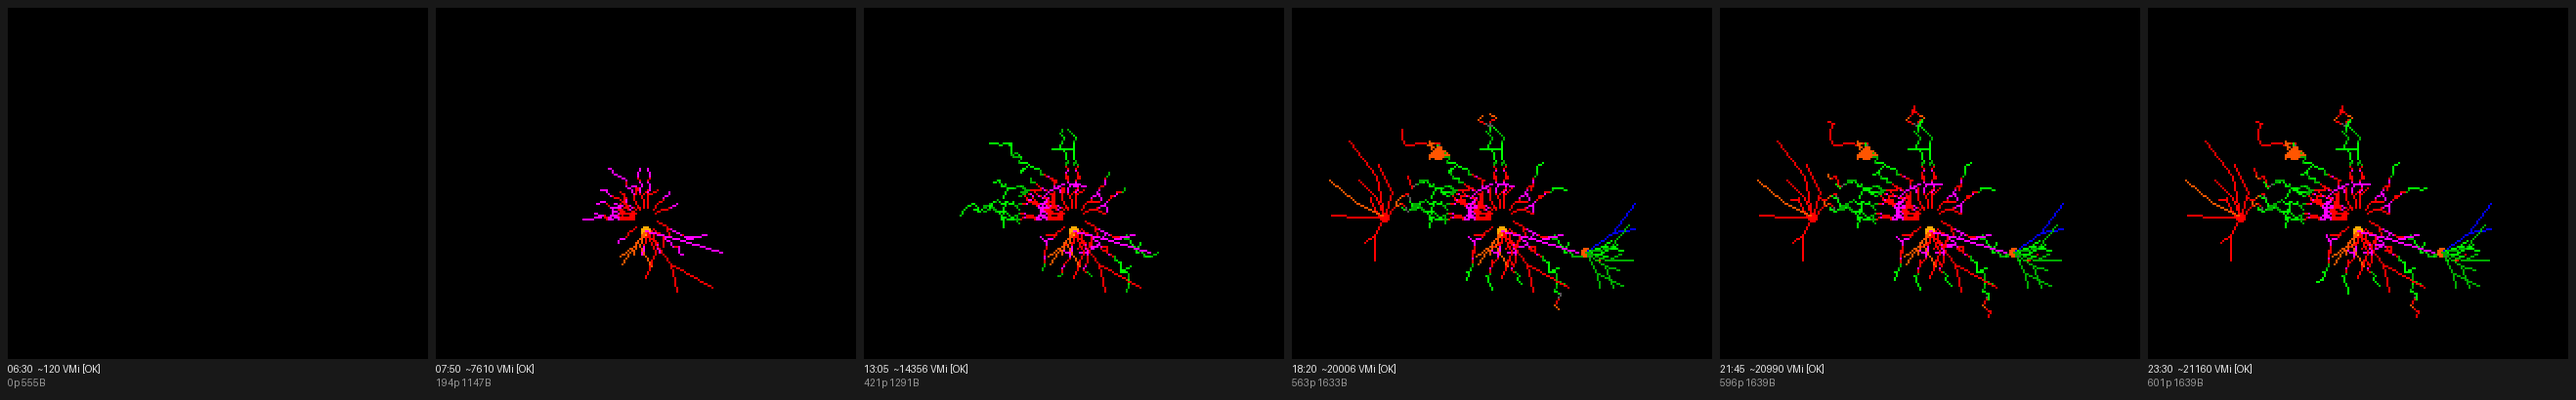
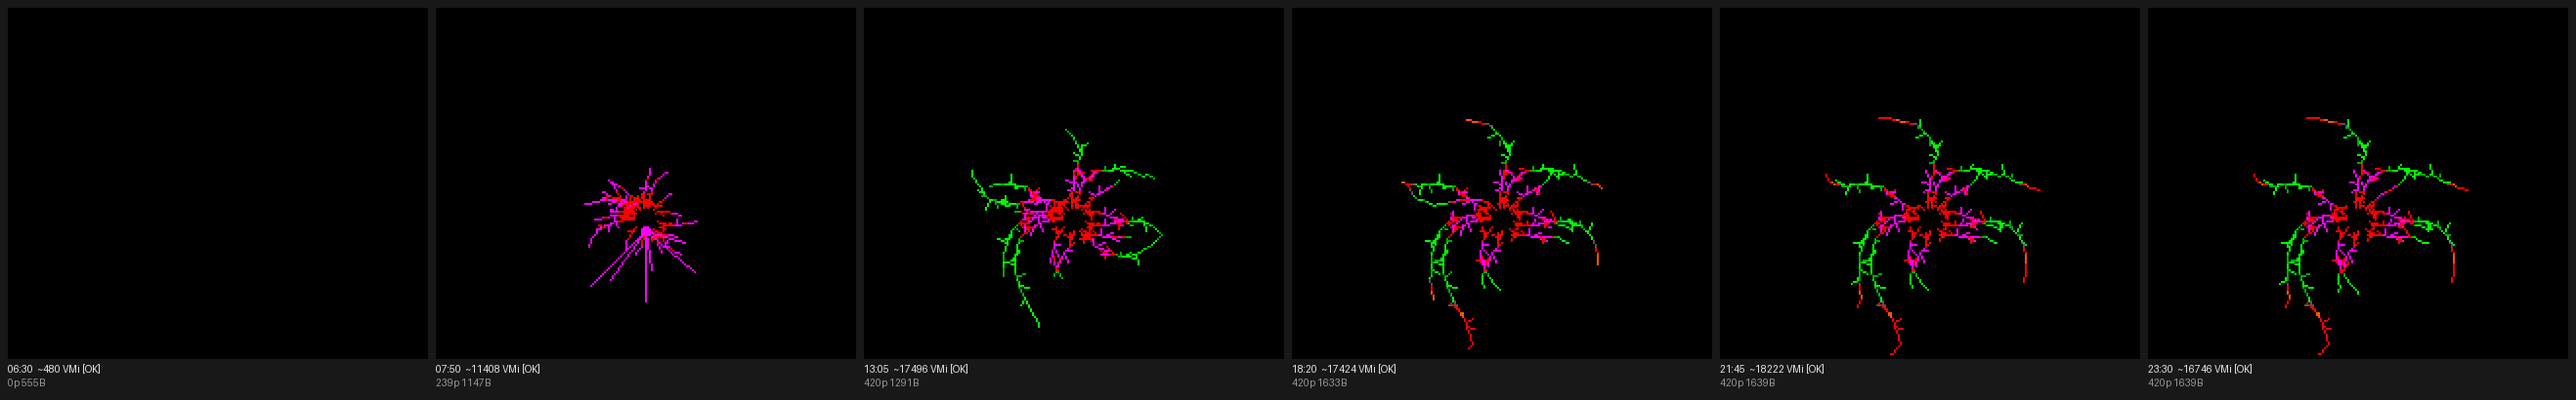
BioBloom: smooth-curve arms so the skeleton reads organic, not jagged
The coarse parametric regen made each arm a piecewise-linear walk that
re-rolled a fresh AMP*ws random turn at every stride, so a coarsened arm
was a DIFFERENT, wilder shape than the fine one -- staggered zigzags that
looked "kinda ugly" on an active dish (ws grows to ~6 on the wrist).

Replace the per-anchor random walk with a smooth heading curve
(headAngle): a gentle per-arm circular-arc curl (sign+rate from the seed
hash) plus one slow undulation, zeroed at the base so arms leave the
centre radially then bend -- reading as an organic tendril. Because the
heading is smooth in along-arm distance, the coarse regen just samples
the SAME curve at fewer points: coarsening drops fidelity, never injects
wander. The arm stays a pure function of its saved scalars (a0, rb, np),
so reload is still lossless and save()/load() are untouched.

growFil no longer accumulates the wiggle per vertex; it sets _tha to the
heading at the tip, so blooms (seedBloom), branch seeding and nearest()
now use the exact point the skeleton reaches -- blooms anchor on the arm
tips instead of floating.

Cost: the curve drops the per-anchor hash16 (constants hoisted per arm),
so it is slightly CHEAPER per anchor than the old walk, and growFil's
per-vertex hash/isin loop is gone -- both render and the advance() catch-up
are lighter than the known-good version. Measured on the same host via
testLayerCostProfile: bloom render 13.1ms vs 13.7ms before, same
[…]

diff --git a/sketches/algos/biobloom_parametric.py b/sketches/algos/biobloom_parametric.py
@@ -16,10 +16,11 @@ Why this is the version that helps the 64 KB ceiling, not just the save blob:
     live allocation) disappears. Regeneration streams one arm at a time into a
     PMAX-slot scratch, so we do NOT just relocate _pt into a frame buffer.
   * save()/load() shrink too: arms persist as scalars, no vertex dump.
-  * reload is LOSSLESS: the wander uses a FIXED amp (AMP), so an arm is a pure
-    function of (a0, rb, np) -- regenerating gives back exactly the live arm.
-    The cost is dropping flag D7 (HR-variability -> wander amplitude); AMP is
-    chosen so the dish keeps its organic tangle (see sketches/save_compare.py).
+  * reload is LOSSLESS: the shape is a smooth curve `head(a0, rb, d)` (a per-arm
+    curl + one undulation), a pure function of (a0, rb, np), so regenerating gives
+    back exactly the live arm. A smooth heading (vs the old per-anchor random walk)
+    is also what makes a COARSELY-regenerated arm still look organic instead of
+    jaggedly staggered -- coarsening just samples the same curve at fewer points.
 
 Trade vs biobloom.py: skeleton and fur are drawn together per arm (one walk),
 so the global skeleton>blooms>fur ink priority becomes blooms>(skeleton+fur).
@@ -59,9 +60,28 @@ KMAX = 20
 SEEDS = 9
 BMAX = 16
 PMAX = 41                 # max vertices an arm regenerates to (R0..RMAX by STEP)
-AMP = 3                   # fixed wander amplitude (was 1 + vrange//10; see module
-                          # docstring -- a constant makes the arm regenerable and
-                          # was tuned to keep the organic look)
+# Arm SHAPE: a smooth per-arm curl (a circular arc, sign+rate from the seed hash)
+# plus one slow undulation, a pure function of (a0, rb, along-arm distance d). The
+# heading is smooth in d, so coarse regen samples the SAME curve -- it cannot inject
+# the jagged wander the old per-anchor AMP*ws random walk did. Mirrors BioBloom.mc.
+CURL_RATE = 22
+CURL_VAR = 12
+CURL_DIV = 64
+UND_SW = 14
+UND_FR = 3
+
+
+def head(a0, rb, d):
+    """Smooth arm heading at along-arm distance d (px). Undulation zeroed at d==0 so
+    the arm leaves the centre radially (at a0) then curves. Mirrors BioBloom.mc."""
+    h = hash16(a0, rb, 2)
+    rate = CURL_RATE + imod(h, CURL_VAR)
+    sign = 1 if (h & 1) else -1
+    ph = imod(hash16(a0, 7, 3), 256)
+    und0 = isin(ph)
+    curl = sign * idiv(rate * d, CURL_DIV)
+    und = idiv(UND_SW * (isin(imod(d * UND_FR + ph, 256)) - und0), 127)
+    return imod(a0 + curl + und, 256)
 
 ACTIVE = 4
 MOM_MODE = "cooldown"
@@ -118,62 +138,51 @@ class BioBloomParam:
     # ---- arm geometry: regenerate vertices from (a0, rb, np) ------------------
 
     def _arm_vertices(self, f):
-        """Replay the fixed-amp wiggle walk. Returns [(x, y, rr), ...]. This is
-        the one allocation per arm per frame -- a PMAX-slot scratch in the .mc,
-        reused across arms (NOT a persistent per-arm cache)."""
-        a = f["a0"]
+        """Sample the smooth heading curve (head) at every vertex. Returns
+        [(x, y, rr), ...]. This is the one allocation per arm per frame -- a
+        PMAX-slot scratch in the .mc, reused across arms (NOT a persistent cache)."""
+        a0 = f["a0"]
         rb, np = f["rb"], f["np"]
         if self.coarse:
-            return self._arm_vertices_coarse(a, rb, np)
+            return self._arm_vertices_coarse(a0, rb, np)
         pts = []
         for k in range(np):
             rr = rb + k * STEP
-            if k > 0:
-                da = idiv(isin(hash16(a, rr, 1) & 255) * AMP, 127)
-                a = imod(a + da, 256)
-            x = CX + idiv(rr * isin(a + 64), 127)
-            y = CY + idiv(rr * isin(a), 127)
-            pts.append((x, y, rr))
+            a = head(a0, rb, k * STEP)
+            pts.append((CX + idiv(rr * isin(a + 64), 127),
+                        CY + idiv(rr * isin(a), 127), rr))
         return pts
 
-    def _arm_vertices_coarse(self, a, rb, np):
-        """Emit ONLY the strided anchors (k = 0, ws, 2*ws, ... + the tip) as a
-        compact list -- NO per-vertex fill. drawArms draws the arm as those few
-        anchor-to-anchor segments. Mirrors BioBloom.mc regenArm(): the per-vertex
-        fill the old version did expanded ~REGEN_CAP anchors back to ~np vertices
-        and processed every one, and that per-vertex method-call work (NOT modelled
-        by this sandbox's VM proxy) was ~90% of the real on-device frame -- the
-        watchdog trip. Emitting only anchors cuts it ~8x. The stride self._ws
-        widens with dish size so total anchors stay ~REGEN_CAP."""
+    def _arm_vertices_coarse(self, a0, rb, np):
+        """Emit ONLY the strided anchors (k = 0, ws, 2*ws, ... + the tip), sampling
+        the SAME smooth heading curve as the fine version -- NO per-vertex fill, and
+        coarsening cannot change the shape (it just samples fewer points on the same
+        curve). Mirrors BioBloom.mc regenArm(): per-anchor method-call work (NOT
+        modelled by this sandbox's VM proxy) was ~90% of the real on-device frame;
+        emitting only anchors cuts it, and the smooth curve made it both prettier and
+        cheaper (no per-anchor hash16). self._ws widens with dish size to bound it."""
         ws = self._ws
         pts = []
         k = 0
         while k < np:
             rr = rb + k * STEP
-            if k > 0:
-                da = idiv(isin(hash16(a, rr, 1) & 255) * (AMP * ws), 127)
-                a = imod(a + da, 256)
+            a = head(a0, rb, k * STEP)
             pts.append((CX + idiv(rr * isin(a + 64), 127),
                         CY + idiv(rr * isin(a), 127), rr))
             k += ws
         if k - ws != np - 1:                      # ensure the tip is the last anchor
             rr = rb + (np - 1) * STEP
-            da = idiv(isin(hash16(a, rr, 1) & 255) * (AMP * ws), 127)
-            a = imod(a + da, 256)
+            a = head(a0, rb, (np - 1) * STEP)
             pts.append((CX + idiv(rr * isin(a + 64), 127),
                         CY + idiv(rr * isin(a), 127), rr))
         return pts
 
     def _tip(self, f):
-        """Arm tip (x, y) without building the whole arm -- walk the angle to the
-        last vertex. Used to anchor blooms (was f['pts'][-1])."""
-        a = f["a0"]
+        """Arm tip (x, y) -- the heading curve evaluated at the tip distance. Anchors
+        blooms exactly where the rendered skeleton reaches (was f['pts'][-1])."""
         rb, np = f["rb"], f["np"]
-        rr = rb
-        for k in range(1, np):
-            rr = rb + k * STEP
-            da = idiv(isin(hash16(a, rr, 1) & 255) * AMP, 127)
-            a = imod(a + da, 256)
+        rr = rb + (np - 1) * STEP
+        a = head(f["a0"], rb, (np - 1) * STEP)
         return CX + idiv(rr * isin(a + 64), 127), CY + idiv(rr * isin(a), 127)
 
     def _longish(self, salt):
@@ -197,11 +206,11 @@ class BioBloomParam:
         if f["L"] > RMAX * UNIT:
             f["L"] = RMAX * UNIT
         while idiv(f["L"], UNIT) >= f["next"] and f["next"] <= RMAX:
-            rr = f["next"]
-            da = idiv(isin(hash16(f["a"], rr, 1) & 255) * AMP, 127)
-            f["a"] = imod(f["a"] + da, 256)
             f["np"] += 1
             f["next"] += STEP
+        # _tha is the heading at the current TIP (so blooms/branches/nearest use the
+        # point the skeleton actually reaches). The shape is a pure function of d.
+        f["a"] = head(f["a0"], f["rb"], (f["np"] - 1) * STEP)
 
     # ---- per-minute simulation (identical to biobloom.py except _grow_fil) -----
 
